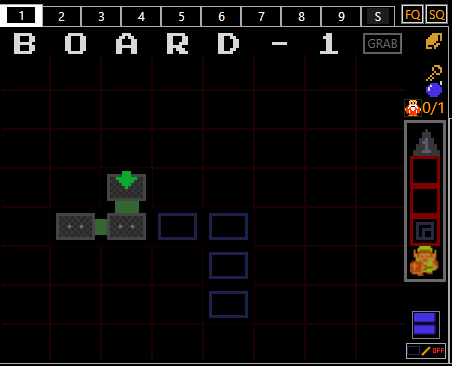
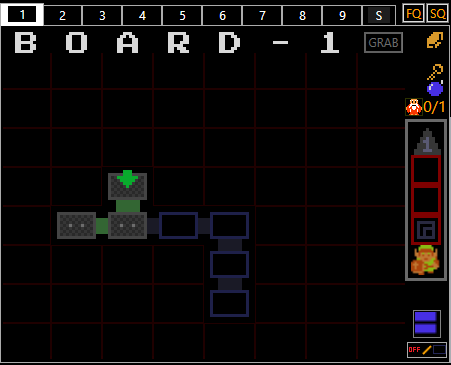
update docs/screenshots for drag-paint

diff --git a/doc/use.md b/doc/use.md
@@ -467,8 +467,8 @@ the map changes to this:
 
 ![DungeonRoom.OffTheMap sample screenshot](screenshots/dt-drag-1-map-step2.png)
 
-Whereas right-click-dragging paints OffTheMap rooms over Unmarked rooms, left-click-dragging does the opposite, painting Unmarked rooms atop OffTheMap rooms.  Note that
-while you are dragging, a grid pops up to make it easier to see where you are painting:
+Whereas right-click-dragging paints OffTheMap rooms over Unmarked rooms, left-click-dragging does the opposite, painting Unmarked rooms atop OffTheMap rooms.  So next you can
+left-click-drag to paint the few existing rooms back onto the map.  Note that while you are dragging, a grid pops up to make it easier to see where you are painting:
 
 ![DungeonRoom.OffTheMap sample screenshot](screenshots/dt-drag-1-map-step3.png)
 
